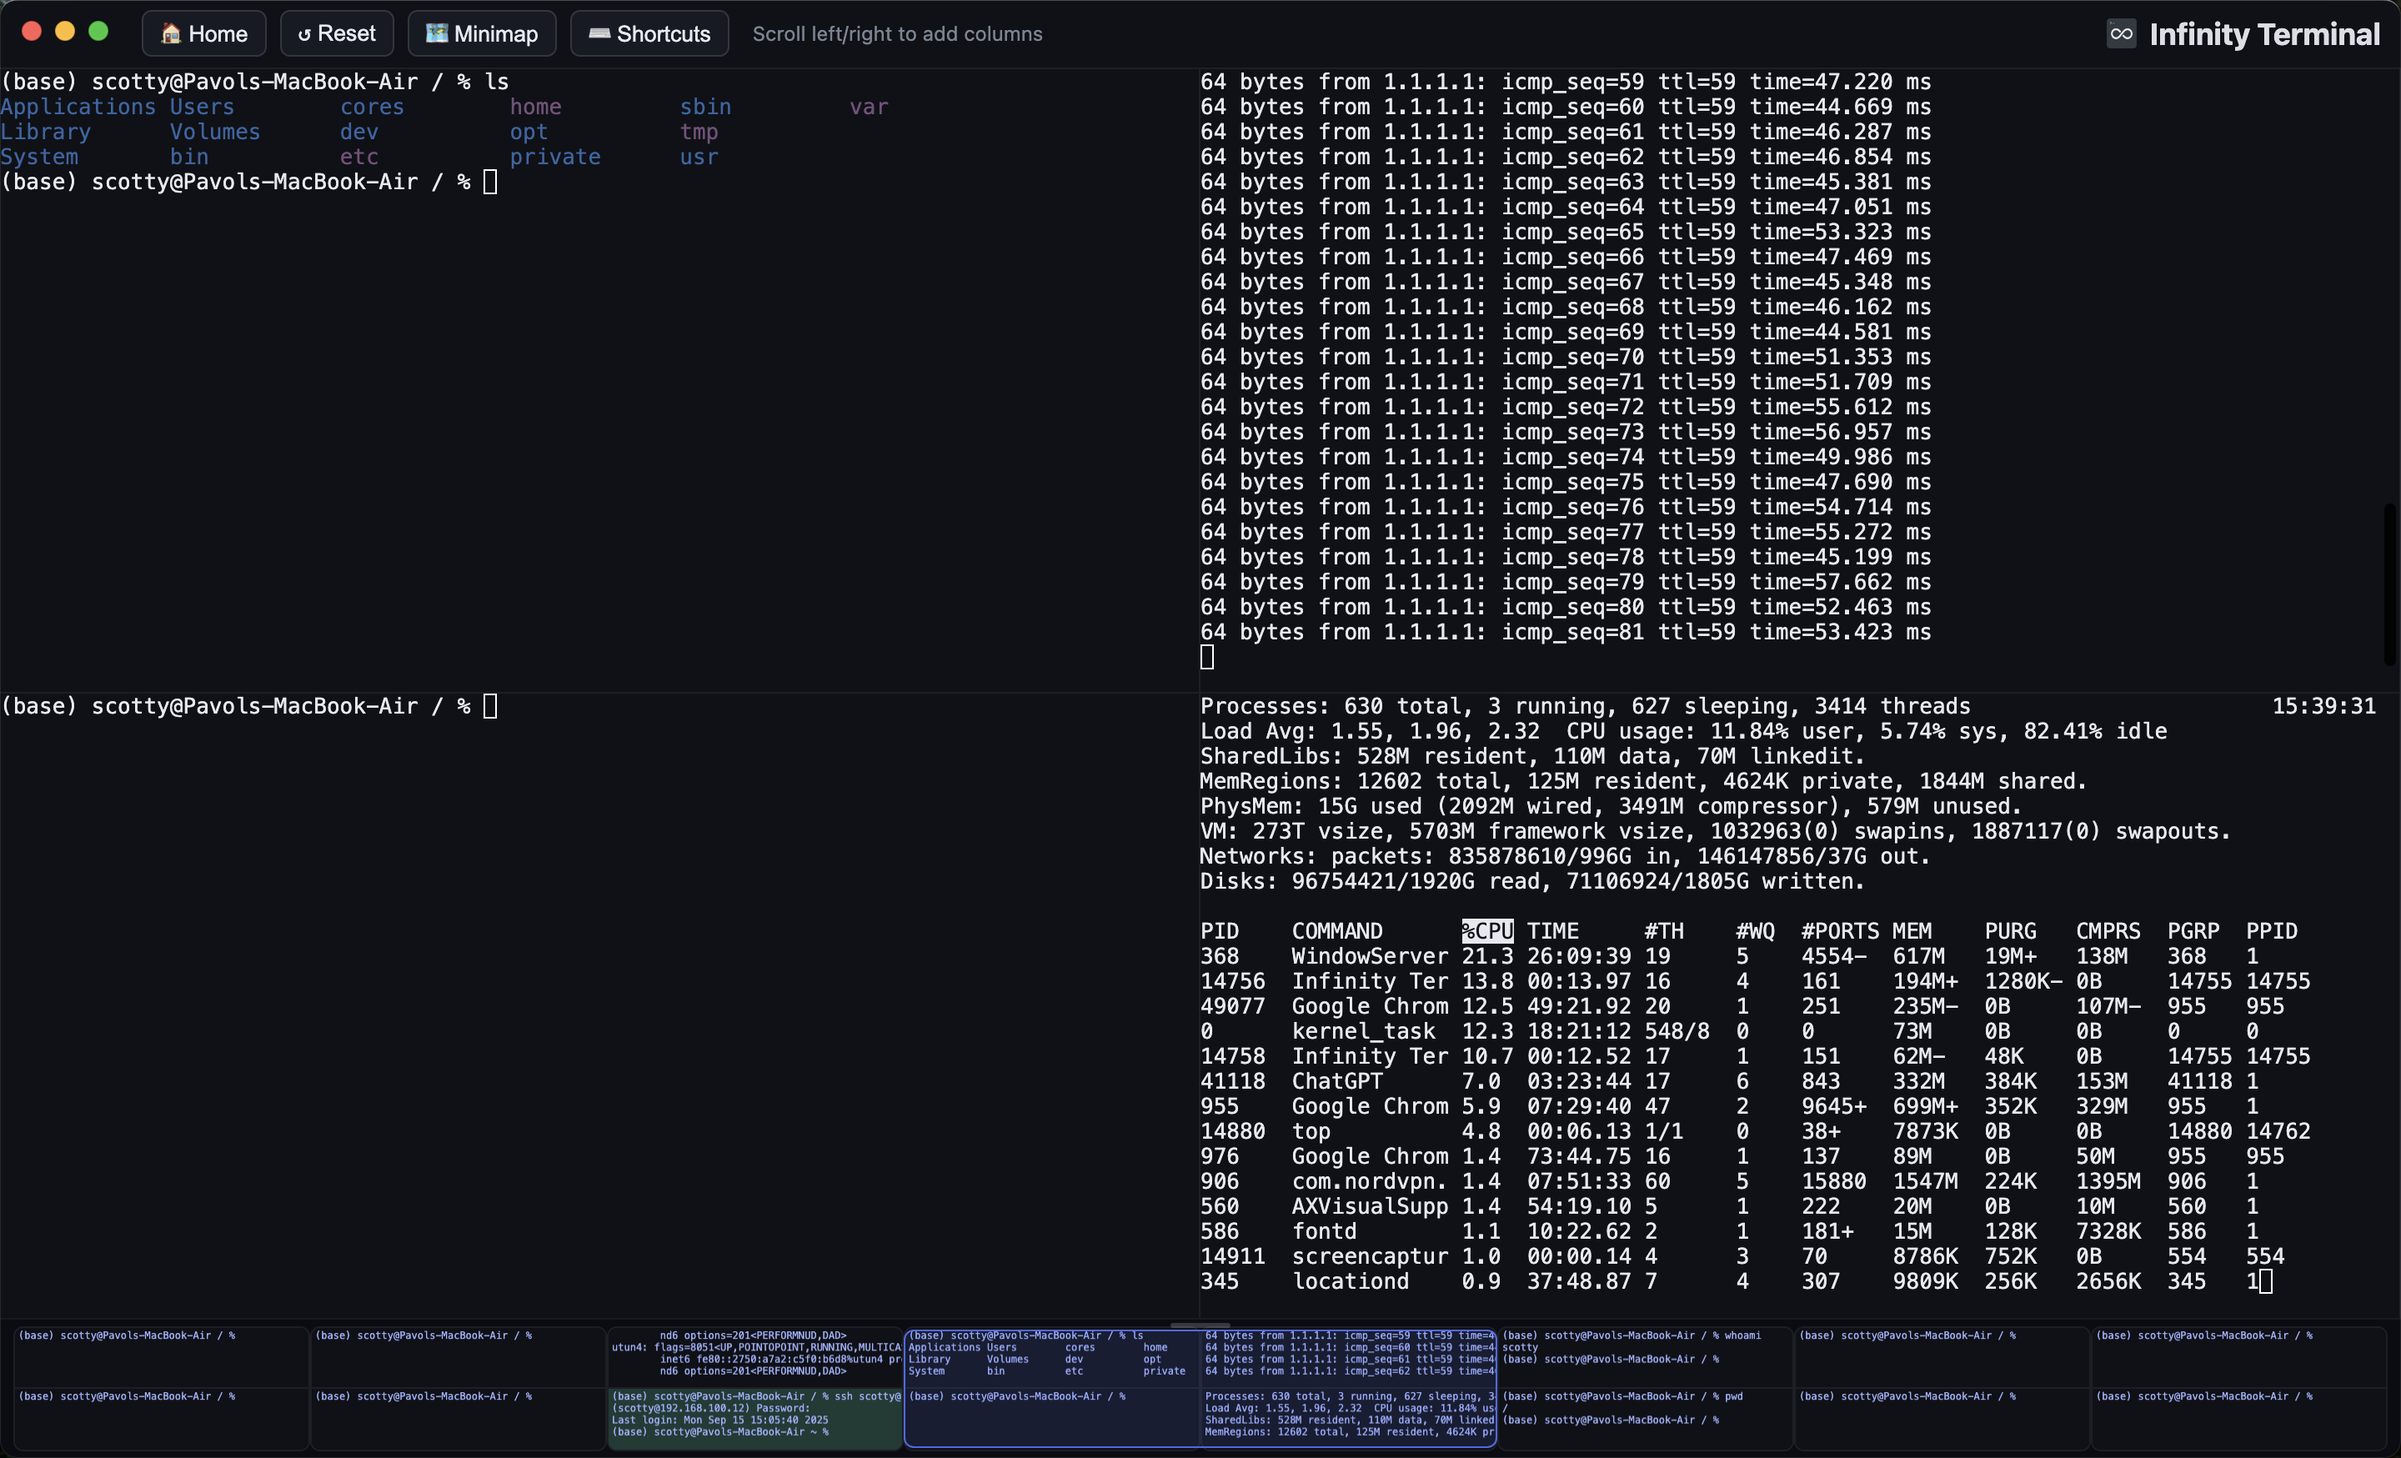
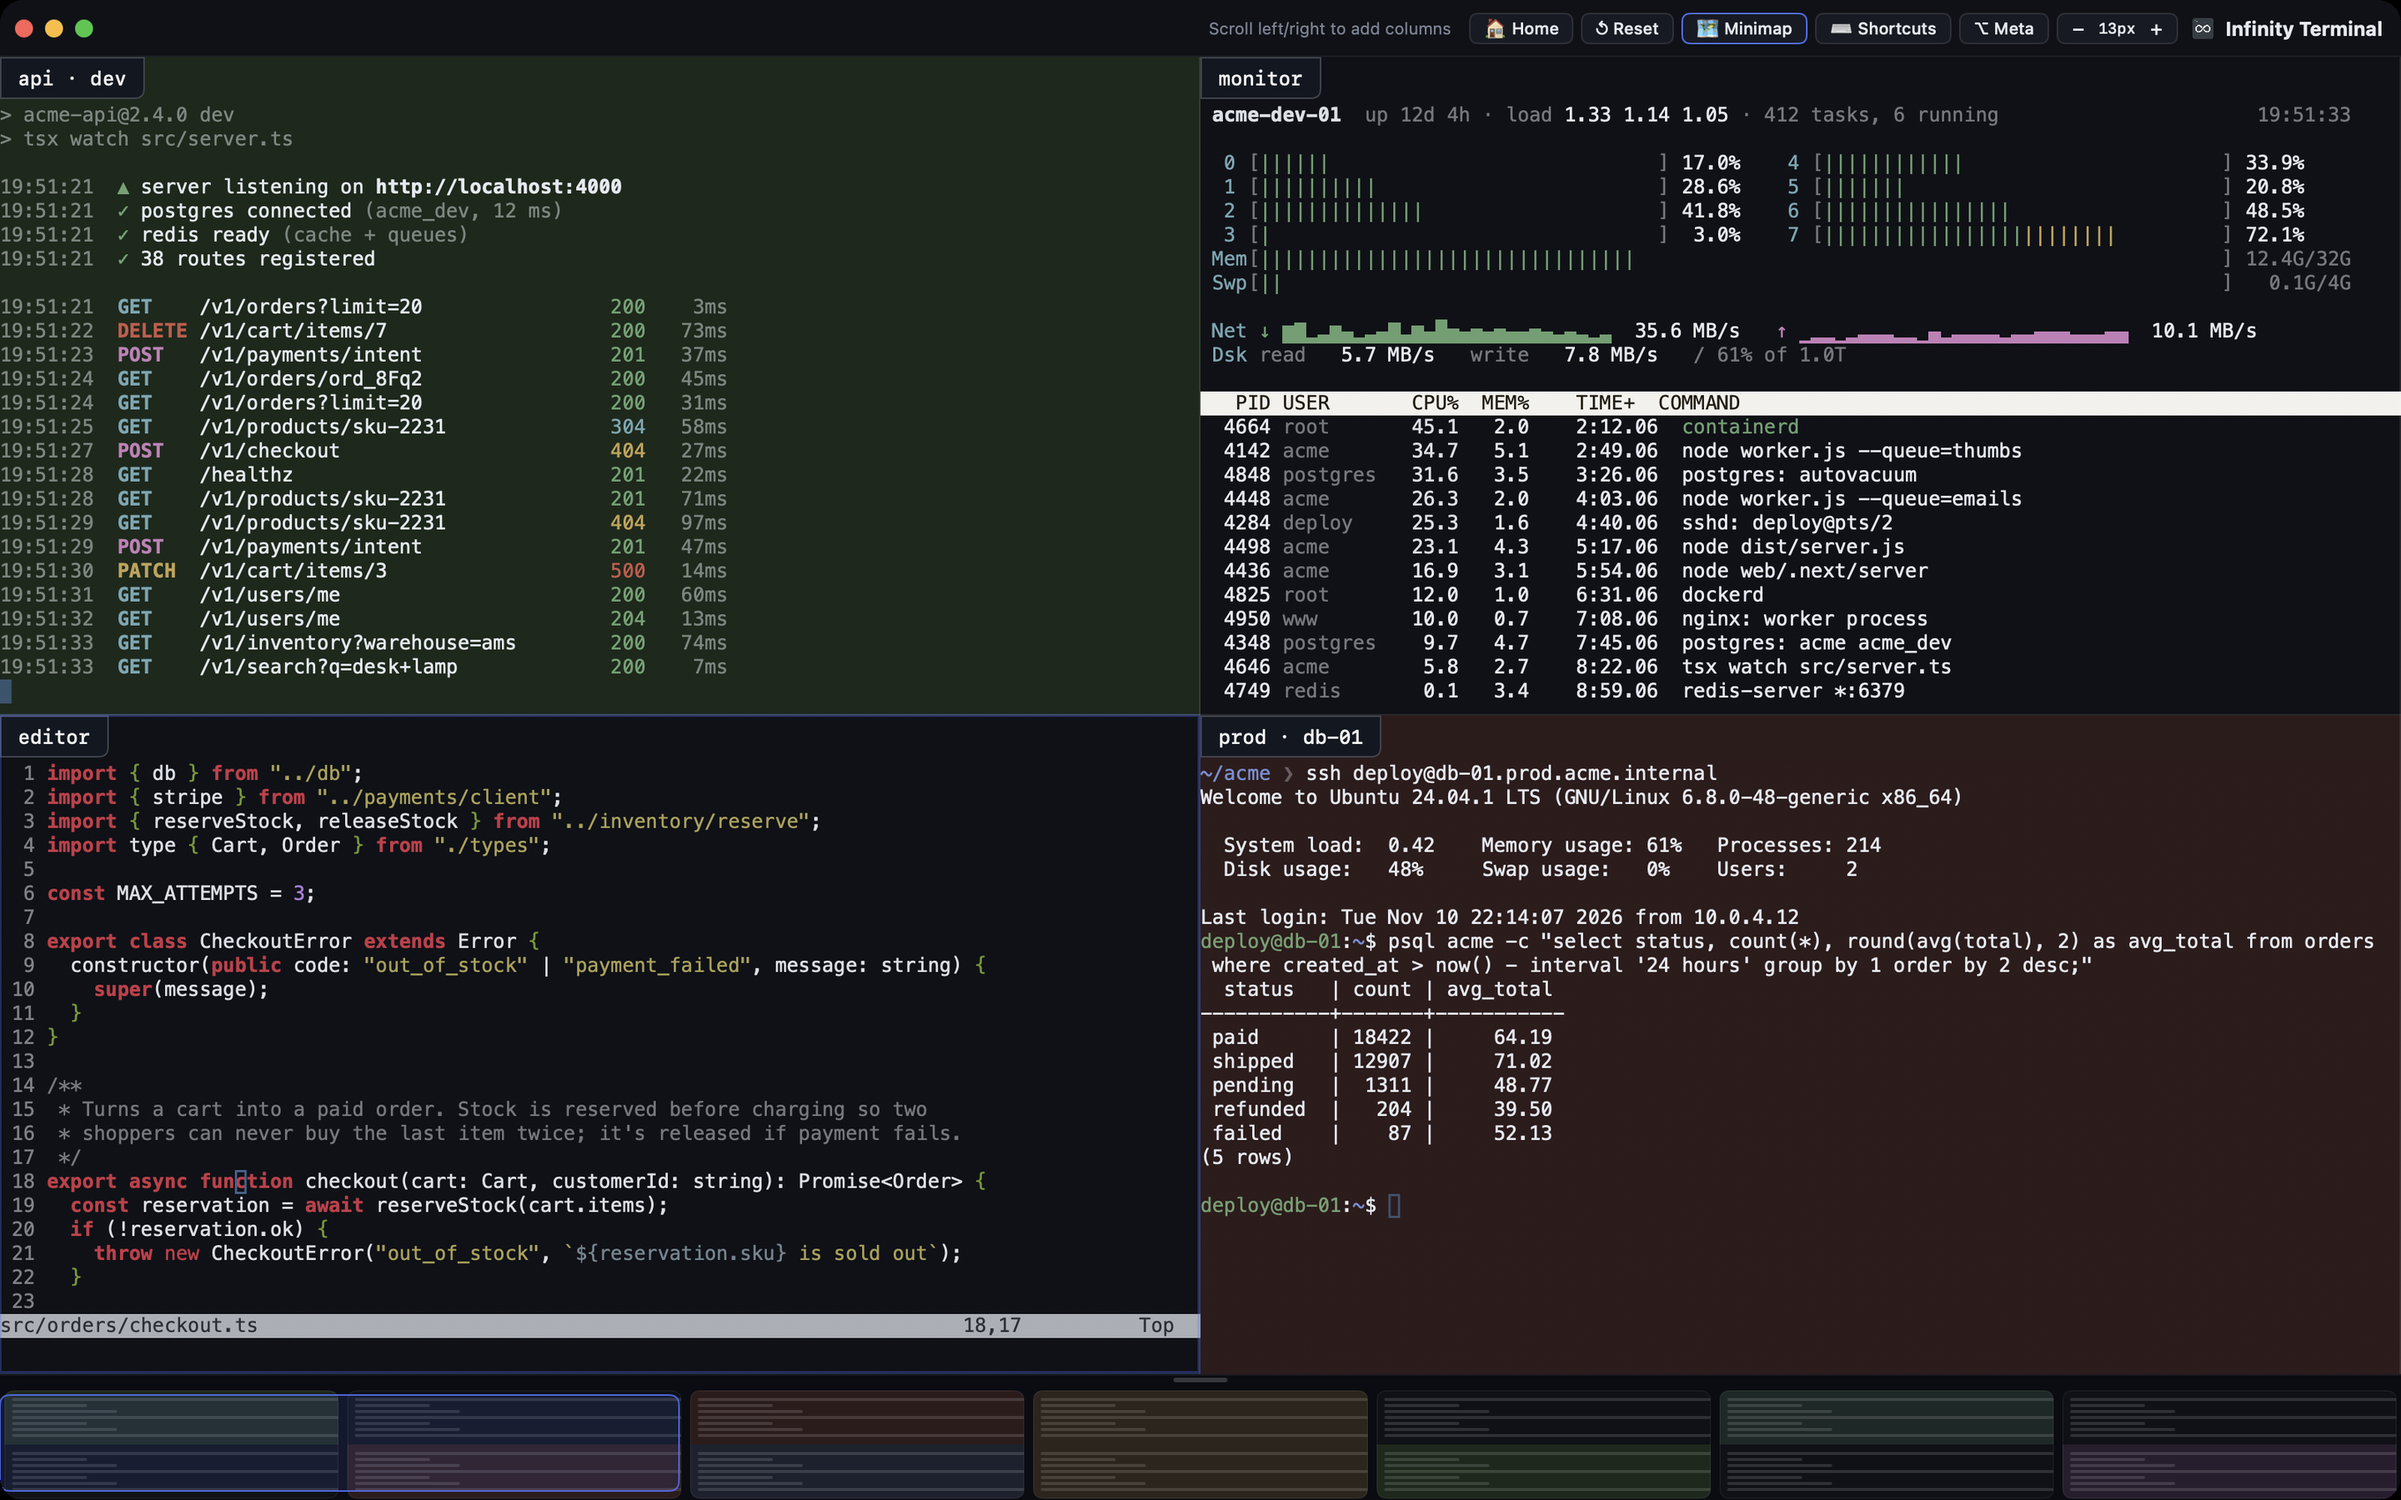
Refresh README screenshots, fix website auto-update, document release flow
The README screenshots now match the website's new ones.

update-web.yml's version-line and What's New regexes stopped matching once
the page gained id attributes, so the static fallback on the website went
stale; they now target the id-tagged elements.

RELEASE_NOTES.md carries the 1.0.32 notes. Pushing a tag runs release.yml,
which publishes the release with this file as its body, so stale notes
overwrote 1.0.32's. The README now describes that flow instead of a manual
release.

Claude-Session: https://claude.ai/code/session_01SQBovueWRcsucxoE66ZzGL

diff --git a/RELEASE_NOTES.md b/RELEASE_NOTES.md
@@ -1,5 +1,6 @@
 ## What's Changed
-- **⌃⇥ / ⌃⇧⇥ move between columns.** The standard next/previous-tab keys now step one column right or left, wrapping around at either end. Requested in [#1](https://github.com/bujna94/infinityTerminal/issues/1).
-- **Keyboard navigation now moves keyboard focus.** Stepping to a column focuses a pane there, so what you type lands where you just navigated. Previously ⌥⌘←/→ scrolled the view but left focus behind, and keystrokes went to a pane that had scrolled off screen.
-- **⌥⌘↑ / ⌥⌘↓ move between the panes stacked in a column.** Maximized panes restore to an even split first, so focus never lands on the collapsed strip.
-- Sideways movement keeps its row: the bottom pane stays the bottom pane as you cross columns. Trackpad scrolling and minimap drags still leave focus alone, so peeking at another column never pulls the cursor out of a running command.
+- **⌥⌘C copies the selection as one line.** Claude Code wraps long lines itself, inserting real line breaks and indentation, so copying a long command it printed pasted as several broken lines. The new shortcut, also available as **Copy as One Line** in the right-click menu, joins the selection back into a single line: each line is trimmed, blank lines and trailing `\` continuations are dropped, and the pieces are joined with single spaces. Plain ⌘C is unchanged.
+- **Selections no longer drift in full-screen apps.** Claude Code, vim and less scroll by redrawing the screen, so the text slid under a selection that stayed put and ⌘C copied something other than what you picked. The selection is now cleared when the text under it changes.
+- **Claude Code's own highlight clears when you select normally.** After an ⌥-drag, Claude Code draws and copies its own selection; a later plain drag now clears it instead of leaving two highlights on screen.
+
+Replaces v1.0.31, whose Copy as One Line menu item was always greyed out.

diff --git a/README.md b/README.md
@@ -88,6 +88,9 @@ skipped if the Apple credentials aren't present.
 
 ## Releases
 
-Tagged `v1.x.y`; the GitHub release is built and published manually from
-`build-app.sh` output. The `update-web.yml` workflow propagates the release
-notes onto [infinityterminal.com](https://infinityterminal.com).
+Tagged `v1.x.y`. To release, bump `VERSION` and `BUILD_NUMBER` in
+`build-app.sh`, write the notes in `RELEASE_NOTES.md`, then push the tag:
+`release.yml` builds, signs, notarizes, and publishes the GitHub release, using
+`RELEASE_NOTES.md` as its body (it overwrites the notes of a release created by
+hand). The `update-web.yml` workflow then propagates the notes onto
+[infinityterminal.com](https://infinityterminal.com).
